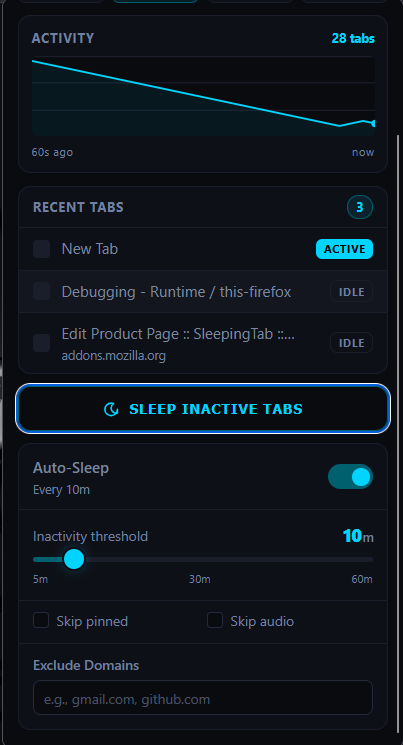
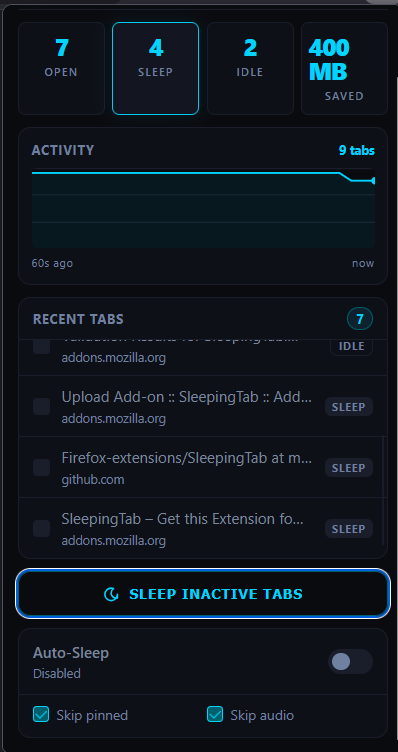
Remove unused screenshot2.png and update README.md to reflect changes

diff --git a/SleepingTab/README.md b/SleepingTab/README.md
@@ -9,7 +9,6 @@
 </p>
 
 <p align="center">
-  <img src="screenshot2.png" width="48%" alt="SleepingTab Exclusions View" />
   <img src="screenshot.png" width="48%" alt="SleepingTab Dashboard View" />
 </p>
 
@@ -109,6 +108,6 @@ The project is configured for automated packaging and signing via Mozilla's `web
 
 ---
 
-## 📄 License
+##  License
 
 This project is licensed under the MIT License — see the [LICENSE](LICENSE) file for details.